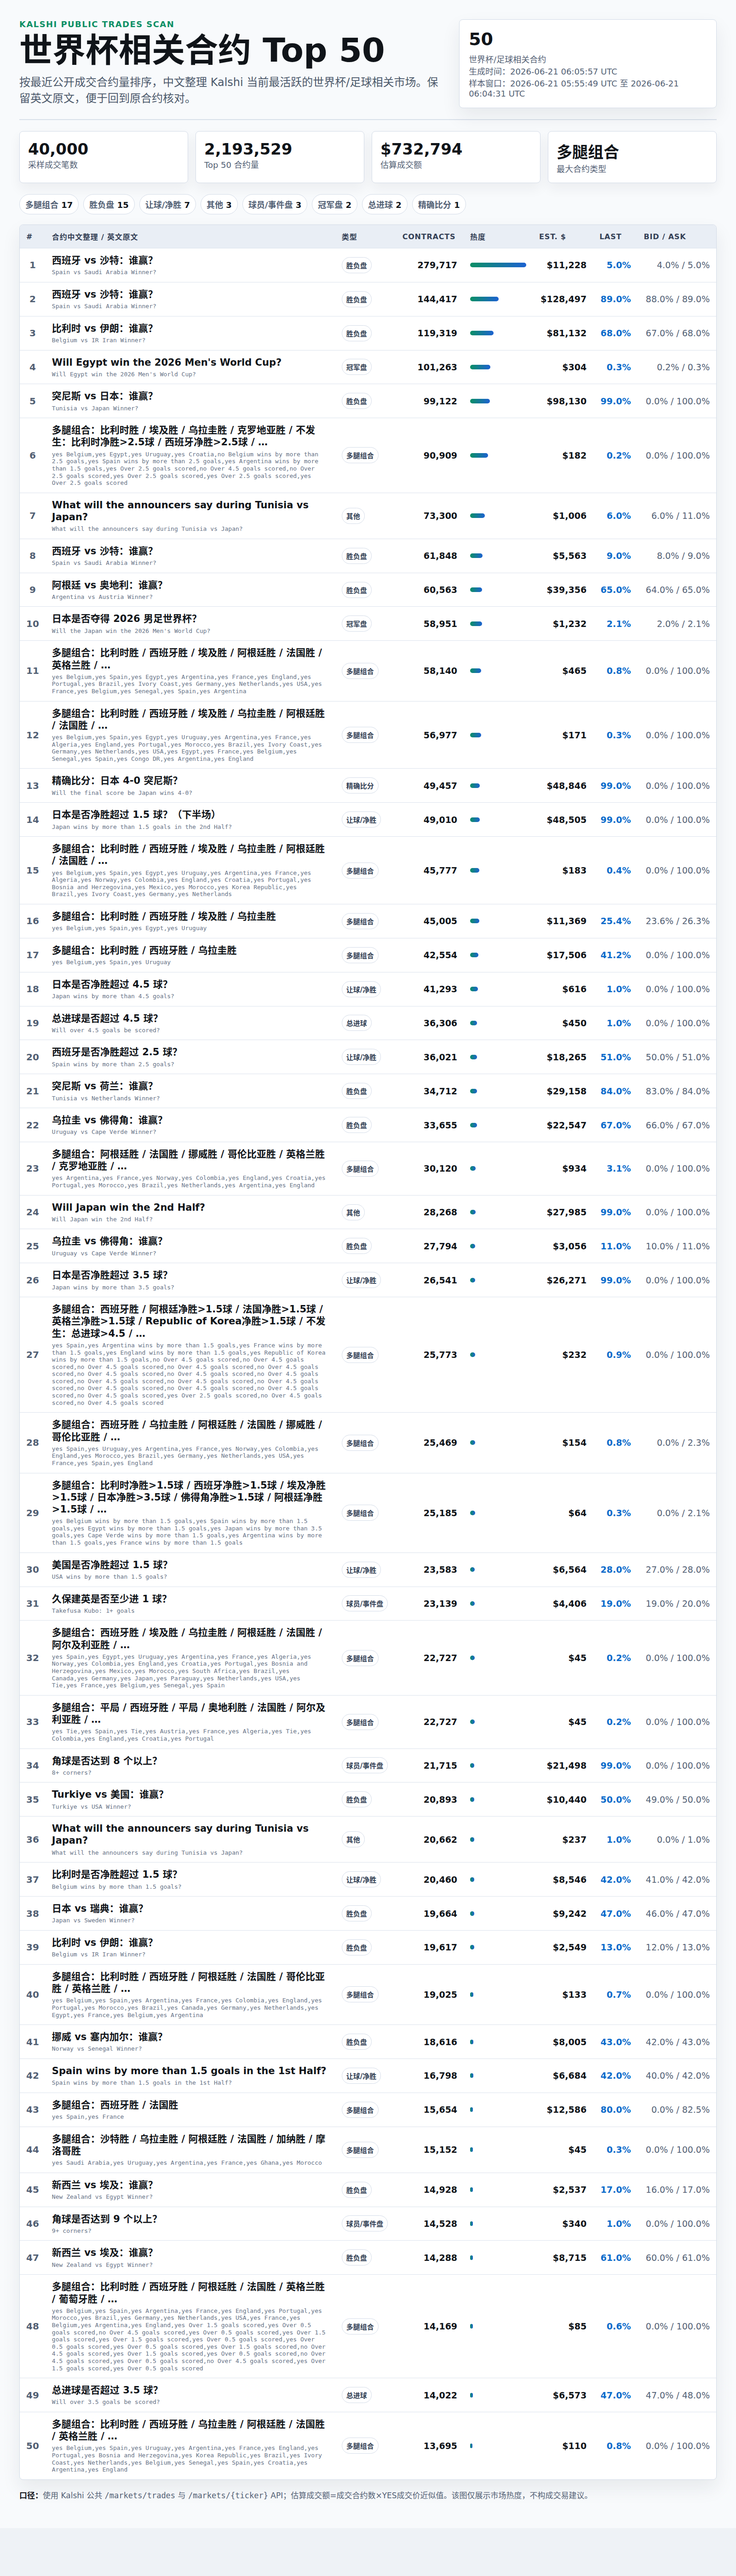
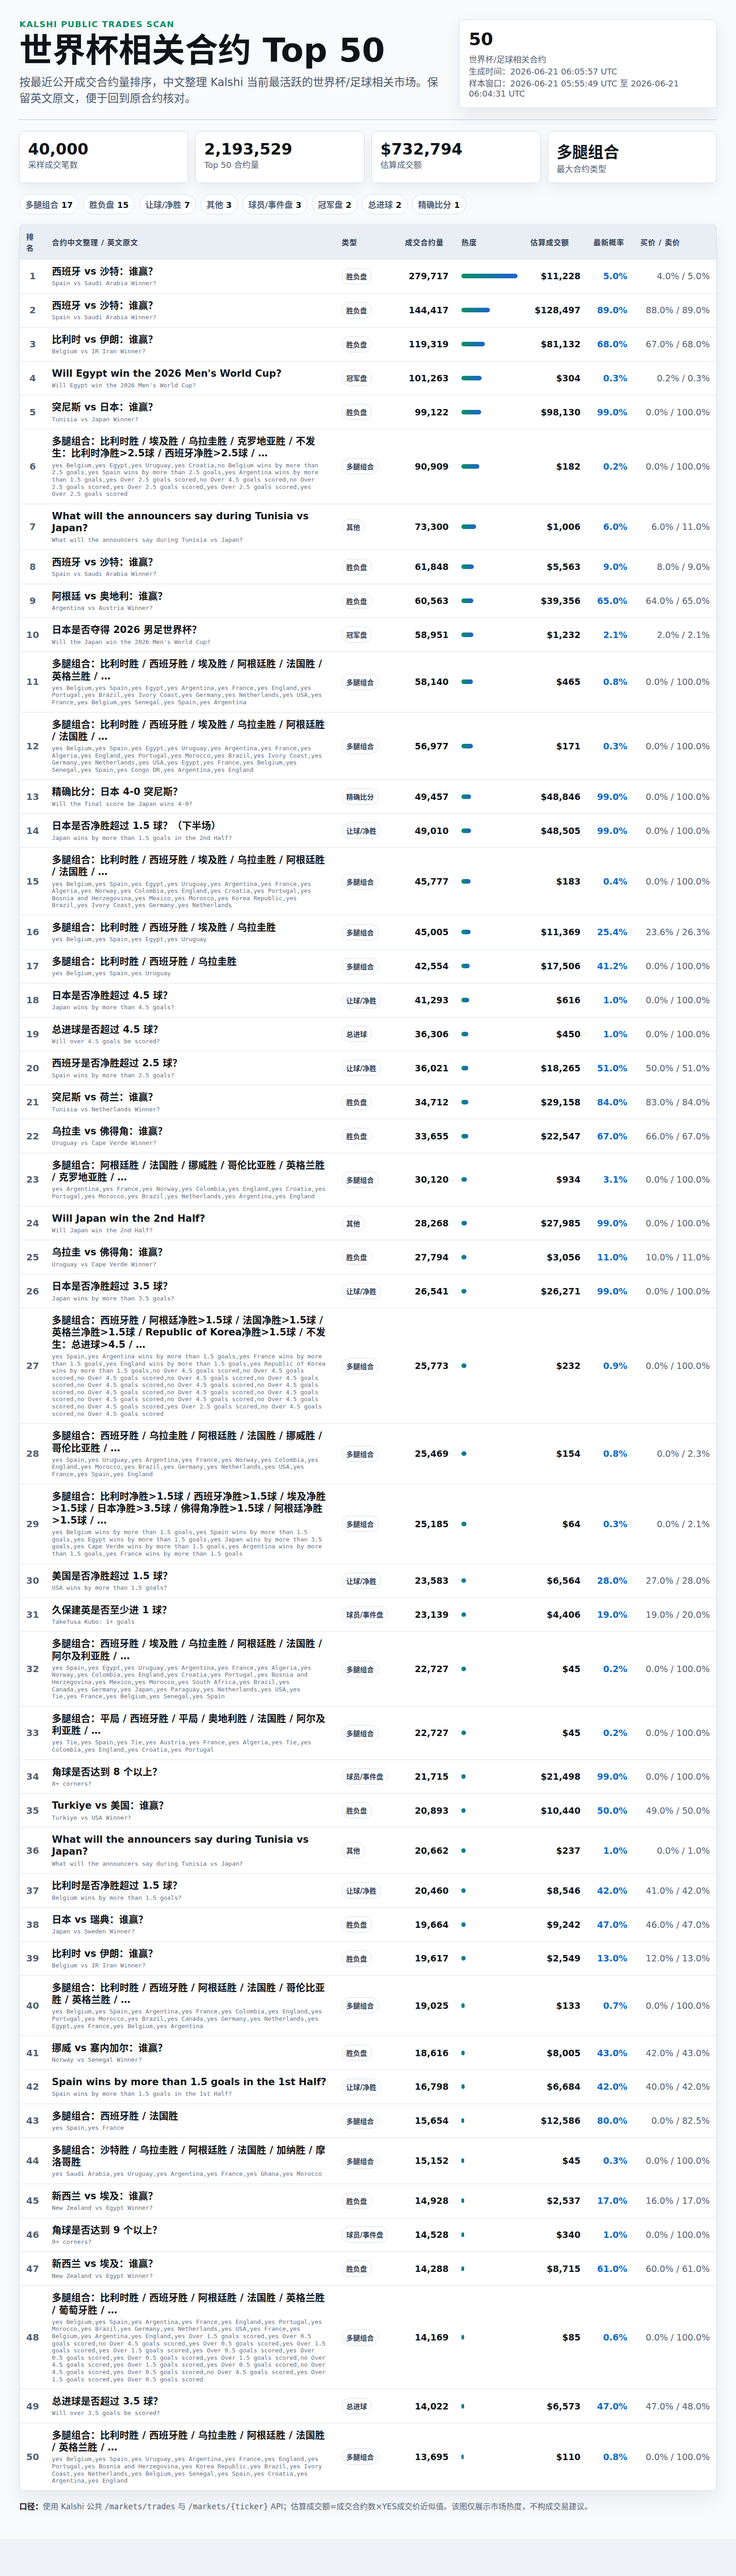
Translate World Cup table headers

diff --git a/2026/06/21/kalshi-worldcup-top50/index.html b/2026/06/21/kalshi-worldcup-top50/index.html
@@ -1,6 +1,6 @@
 <!doctype html><html lang="zh-CN"><head><meta charset="utf-8"><meta name="viewport" content="width=device-width, initial-scale=1"><title>Kalshi 世界杯相关合约 Top 50</title><style>
 *{box-sizing:border-box} body{margin:0;background:#eef2f6;color:#101419;font-family:Inter,ui-sans-serif,system-ui,-apple-system,"Segoe UI",sans-serif} .canvas{width:1600px;min-height:2200px;margin:0 auto;background:#f8fafc;padding:42px} .top{display:flex;justify-content:space-between;gap:26px;align-items:flex-start;border-bottom:2px solid #d9e0ea;padding-bottom:24px} .eyebrow{margin:0 0 10px;color:#0b8f65;font-size:18px;font-weight:900;letter-spacing:.08em;text-transform:uppercase} h1{margin:0;font-size:72px;line-height:1.02;letter-spacing:0} .sub{margin:16px 0 0;color:#4c596b;font-size:24px;max-width:1050px;line-height:1.45} .stamp{min-width:360px;background:#fff;border:1px solid #d4dce8;border-radius:8px;padding:20px;box-shadow:0 18px 40px rgba(27,38,55,.08)} .stamp b{display:block;font-size:38px} .stamp p{margin:8px 0 0;color:#536175;font-size:18px} .metrics{display:grid;grid-template-columns:repeat(4,1fr);gap:16px;margin:24px 0} .metric{background:#fff;border:1px solid #d4dce8;border-radius:8px;padding:18px;box-shadow:0 12px 26px rgba(27,38,55,.06)} .metric b{display:block;font-size:34px} .metric span{color:#536175;font-size:18px} .chips{display:flex;flex-wrap:wrap;gap:10px;margin:0 0 22px} .chips span{border:1px solid #d4dce8;background:#fff;border-radius:999px;padding:8px 12px;color:#536175;font-size:18px;font-weight:800} .chips b{color:#101419} table{width:100%;border-collapse:separate;border-spacing:0;background:#fff;border:1px solid #d4dce8;border-radius:8px;overflow:hidden;box-shadow:0 18px 40px rgba(27,38,55,.08)} th,td{border-bottom:1px solid #dce3ed;padding:13px 14px;vertical-align:middle} th{background:#e9eef5;color:#344055;text-align:left;font-size:16px;letter-spacing:.05em;text-transform:uppercase} tr:last-child td{border-bottom:0} .rank{width:54px;text-align:center;font-size:20px;font-weight:900;color:#526074} .market{width:630px} .market div{font-size:21px;font-weight:900;line-height:1.25} .market small{display:block;margin-top:5px;color:#667286;font-family:ui-monospace,SFMono-Regular,Menlo,monospace;font-size:13px;line-height:1.2} td span{display:inline-flex;border:1px solid #d4dce8;border-radius:999px;padding:6px 9px;color:#334155;font-size:15px;font-weight:850;white-space:nowrap} .num,.quote{text-align:right;font-variant-numeric:tabular-nums;font-size:19px;white-space:nowrap} .num{font-weight:900} .quote{color:#536175} .prob{color:#0b6bcb} .bar{width:150px} .bar i{display:block;height:10px;border-radius:99px;background:linear-gradient(90deg,#0b8f65,#1d62d1)} .foot{margin-top:22px;color:#536175;font-size:17px;line-height:1.45} .foot strong{color:#101419}
-</style></head><body><main class="canvas"><section class="top"><div><p class="eyebrow">Kalshi public trades scan</p><h1>世界杯相关合约 Top 50</h1><p class="sub">按最近公开成交合约量排序，中文整理 Kalshi 当前最活跃的世界杯/足球相关市场。保留英文原文，便于回到原合约核对。</p></div><aside class="stamp"><b>50</b><p>世界杯/足球相关合约<br>生成时间：2026-06-21 06:05:57 UTC<br>样本窗口：2026-06-21 05:55:49 UTC 至 2026-06-21 06:04:31 UTC</p></aside></section><section class="metrics"><div class="metric"><b>40,000</b><span>采样成交笔数</span></div><div class="metric"><b>2,193,529</b><span>Top 50 合约量</span></div><div class="metric"><b>$732,794</b><span>估算成交额</span></div><div class="metric"><b>多腿组合</b><span>最大合约类型</span></div></section><div class="chips"><span>多腿组合 <b>17</b></span><span>胜负盘 <b>15</b></span><span>让球/净胜 <b>7</b></span><span>其他 <b>3</b></span><span>球员/事件盘 <b>3</b></span><span>冠军盘 <b>2</b></span><span>总进球 <b>2</b></span><span>精确比分 <b>1</b></span></div><table><thead><tr><th>#</th><th>合约中文整理 / 英文原文</th><th>类型</th><th>Contracts</th><th>热度</th><th>Est. $</th><th>Last</th><th>Bid / Ask</th></tr></thead><tbody><tr>
+</style></head><body><main class="canvas"><section class="top"><div><p class="eyebrow">Kalshi public trades scan</p><h1>世界杯相关合约 Top 50</h1><p class="sub">按最近公开成交合约量排序，中文整理 Kalshi 当前最活跃的世界杯/足球相关市场。保留英文原文，便于回到原合约核对。</p></div><aside class="stamp"><b>50</b><p>世界杯/足球相关合约<br>生成时间：2026-06-21 06:05:57 UTC<br>样本窗口：2026-06-21 05:55:49 UTC 至 2026-06-21 06:04:31 UTC</p></aside></section><section class="metrics"><div class="metric"><b>40,000</b><span>采样成交笔数</span></div><div class="metric"><b>2,193,529</b><span>Top 50 合约量</span></div><div class="metric"><b>$732,794</b><span>估算成交额</span></div><div class="metric"><b>多腿组合</b><span>最大合约类型</span></div></section><div class="chips"><span>多腿组合 <b>17</b></span><span>胜负盘 <b>15</b></span><span>让球/净胜 <b>7</b></span><span>其他 <b>3</b></span><span>球员/事件盘 <b>3</b></span><span>冠军盘 <b>2</b></span><span>总进球 <b>2</b></span><span>精确比分 <b>1</b></span></div><table><thead><tr><th>排名</th><th>合约中文整理 / 英文原文</th><th>类型</th><th>成交合约量</th><th>热度</th><th>估算成交额</th><th>最新概率</th><th>买价 / 卖价</th></tr></thead><tbody><tr>
       <td class="rank">1</td>
       <td class="market"><div>西班牙 vs 沙特：谁赢？</div><small>Spain vs Saudi Arabia Winner?</small></td>
       <td><span>胜负盘</span></td>
